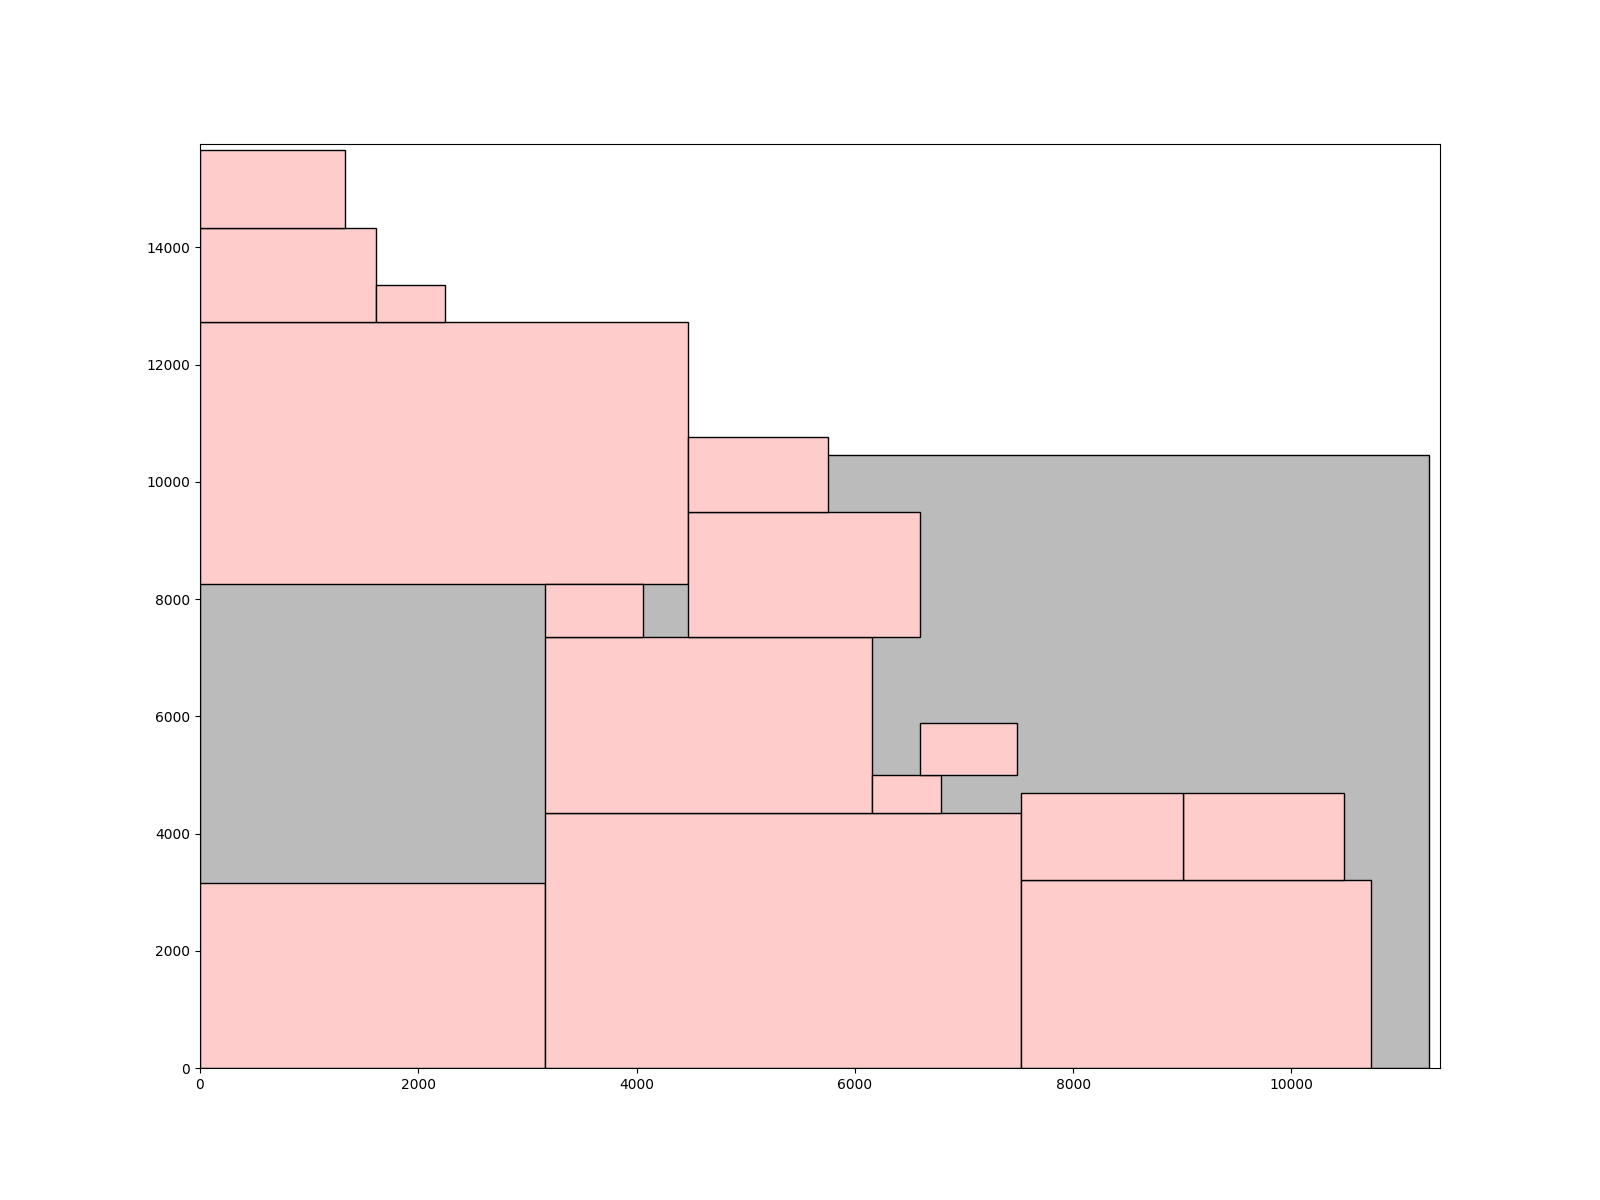
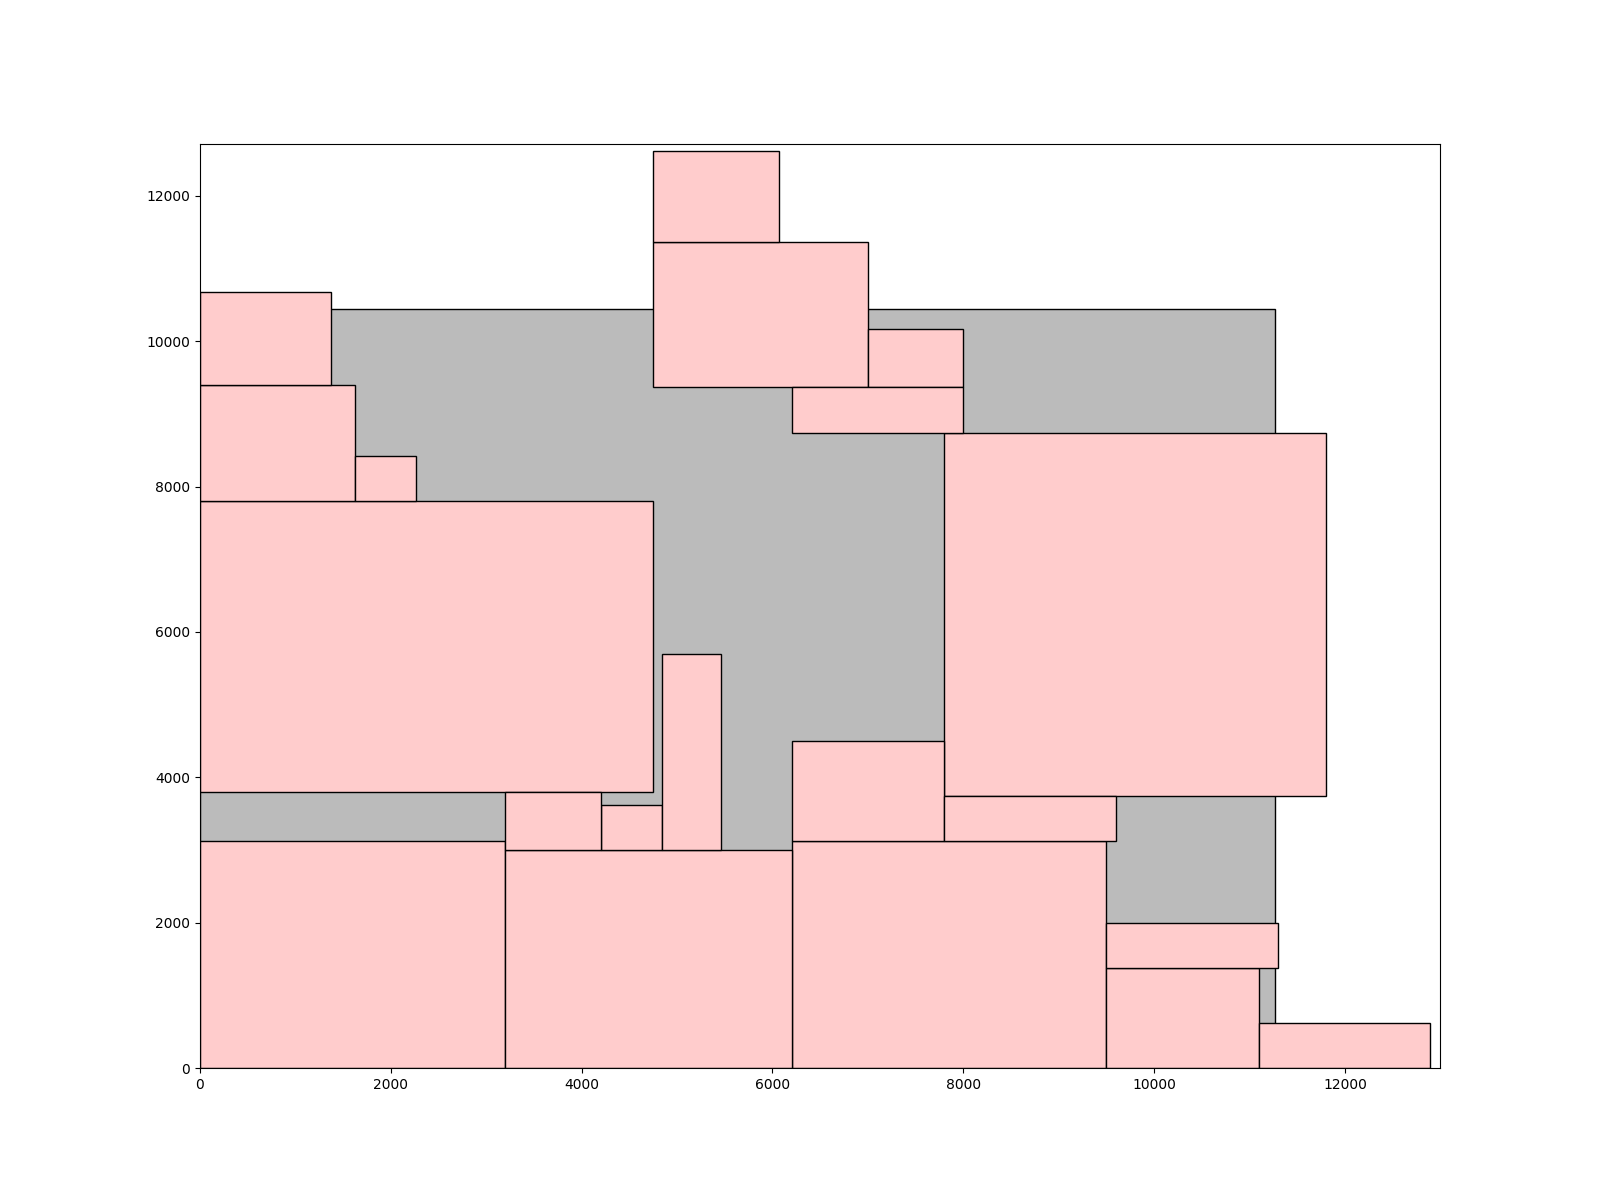
verified tree peturb funcs

diff --git a/main.cpp b/main.cpp
@@ -203,33 +203,45 @@ int main(int argc, char *argv[]){
     }
 
 
-    // printf("After Render...\n");
-    // for(int i = 0; i < NUMBER_OF_FIXED_MODULES; i++){
-    //     printBlock(&blockList[i]);
-    // }
-    // for(int i = NUMBER_OF_FIXED_MODULES; i < (NUMBER_OF_FIXED_MODULES+NUMBER_OF_SOFT_MODULES); i++){
-    //     printBlock(&blockList[i]);
-    // }
+
+    int result = BST.perturbRotateBlock(soft_modules_vector[2]);
+    BST.render();
+    printf("Rotate reuslt: %d\n",result);
+    BST.boundingBox(&floorplan_width, &floorplan_height);
+    printf("W: %d, H:% d\n", floorplan_width, floorplan_height);
+    printf("Conn: %lf\n", CalculateConnection(connections_vector, NUMBER_OF_CONNECTIONS));
+        for(int i = 0; i < (NUMBER_OF_SOFT_MODULES+NUMBER_OF_FIXED_MODULES); i++){
+        printBlock(allblock_vector[i]);
+    }
 
 
-    // // printf("Before rotate: (%d, %d @(%d, %d))", blockList[3].width, blockList[3].height, blockList[3].block_x, blockList[3].block_y);
-    // // printBlock(&blockList[3]);
-    // int result = BST.perturbRotateBlock(&(blockList[3]));
-    // printf("Rotate reuslt: %d\n",result);
-    // BST.render();
-    // printf("W: %d, H:% d\n", floorplan_width, floorplan_height);
-    // printf("Conn: %lf\n", CalculateConnection(connections_vector, NUMBER_OF_CONNECTIONS));
 
 
-    // result = BST.perturbMoveBlock(&(blockList[3]), &(blockList[1]));
-    // printf("Rotate reuslt: %d\n",result);
-    // BST.render();
-    // printf("W: %d, H:% d\n", floorplan_width, floorplan_height);
-    // printf("Conn: %lf\n", CalculateConnection(connections_vector, NUMBER_OF_CONNECTIONS));
+    result = BST.perturbMoveBlock(soft_modules_vector[1], fixed_modules_vector[2]);
+    BST.render();
+    printf("Move reuslt: %d\n",result);
+    BST.boundingBox(&floorplan_width, &floorplan_height);
+    printf("W: %d, H:% d\n", floorplan_width, floorplan_height);
+    printf("Conn: %lf\n", CalculateConnection(connections_vector, NUMBER_OF_CONNECTIONS));
+        for(int i = 0; i < (NUMBER_OF_SOFT_MODULES+NUMBER_OF_FIXED_MODULES); i++){
+        printBlock(allblock_vector[i]);
+    }
 
-    // //final print
-    // BST.printFloorplan(fout1, CHIP_WIDTH, CHIP_HEIGHT);
-    // BST.printTree(fout2);
+    result = BST.perturbSwapNode(soft_modules_vector[2], soft_modules_vector[1]);
+    BST.render();
+    printf("Swap reuslt: %d\n",result);
+    BST.boundingBox(&floorplan_width, &floorplan_height);
+    printf("W: %d, H:% d\n", floorplan_width, floorplan_height);
+    printf("Conn: %lf\n", CalculateConnection(connections_vector, NUMBER_OF_CONNECTIONS));
+        for(int i = 0; i < (NUMBER_OF_SOFT_MODULES+NUMBER_OF_FIXED_MODULES); i++){
+        printBlock(allblock_vector[i]);
+    }
+
+
+
+    //final print
+    BST.printFloorplan(fout1, CHIP_WIDTH, CHIP_HEIGHT);
+    BST.printTree(fout2);
 
 }
 

diff --git a/BStarTree.cpp b/BStarTree.cpp
@@ -175,7 +175,7 @@ void BStarTree::init(std::vector<Block*> blockVector){
 
         double initAspectRatio = 1.0;
         if (currentBlockPointer->width != 0 && currentBlockPointer->height != 0){
-            double initAspectRatio = (double)currentBlockPointer->width / (double)(currentBlockPointer->height);
+            initAspectRatio = (double)currentBlockPointer->width / (double)(currentBlockPointer->height);
         }
 
         this->bTree.push_back(Node(0, 0, newParent, initAspectRatio));
